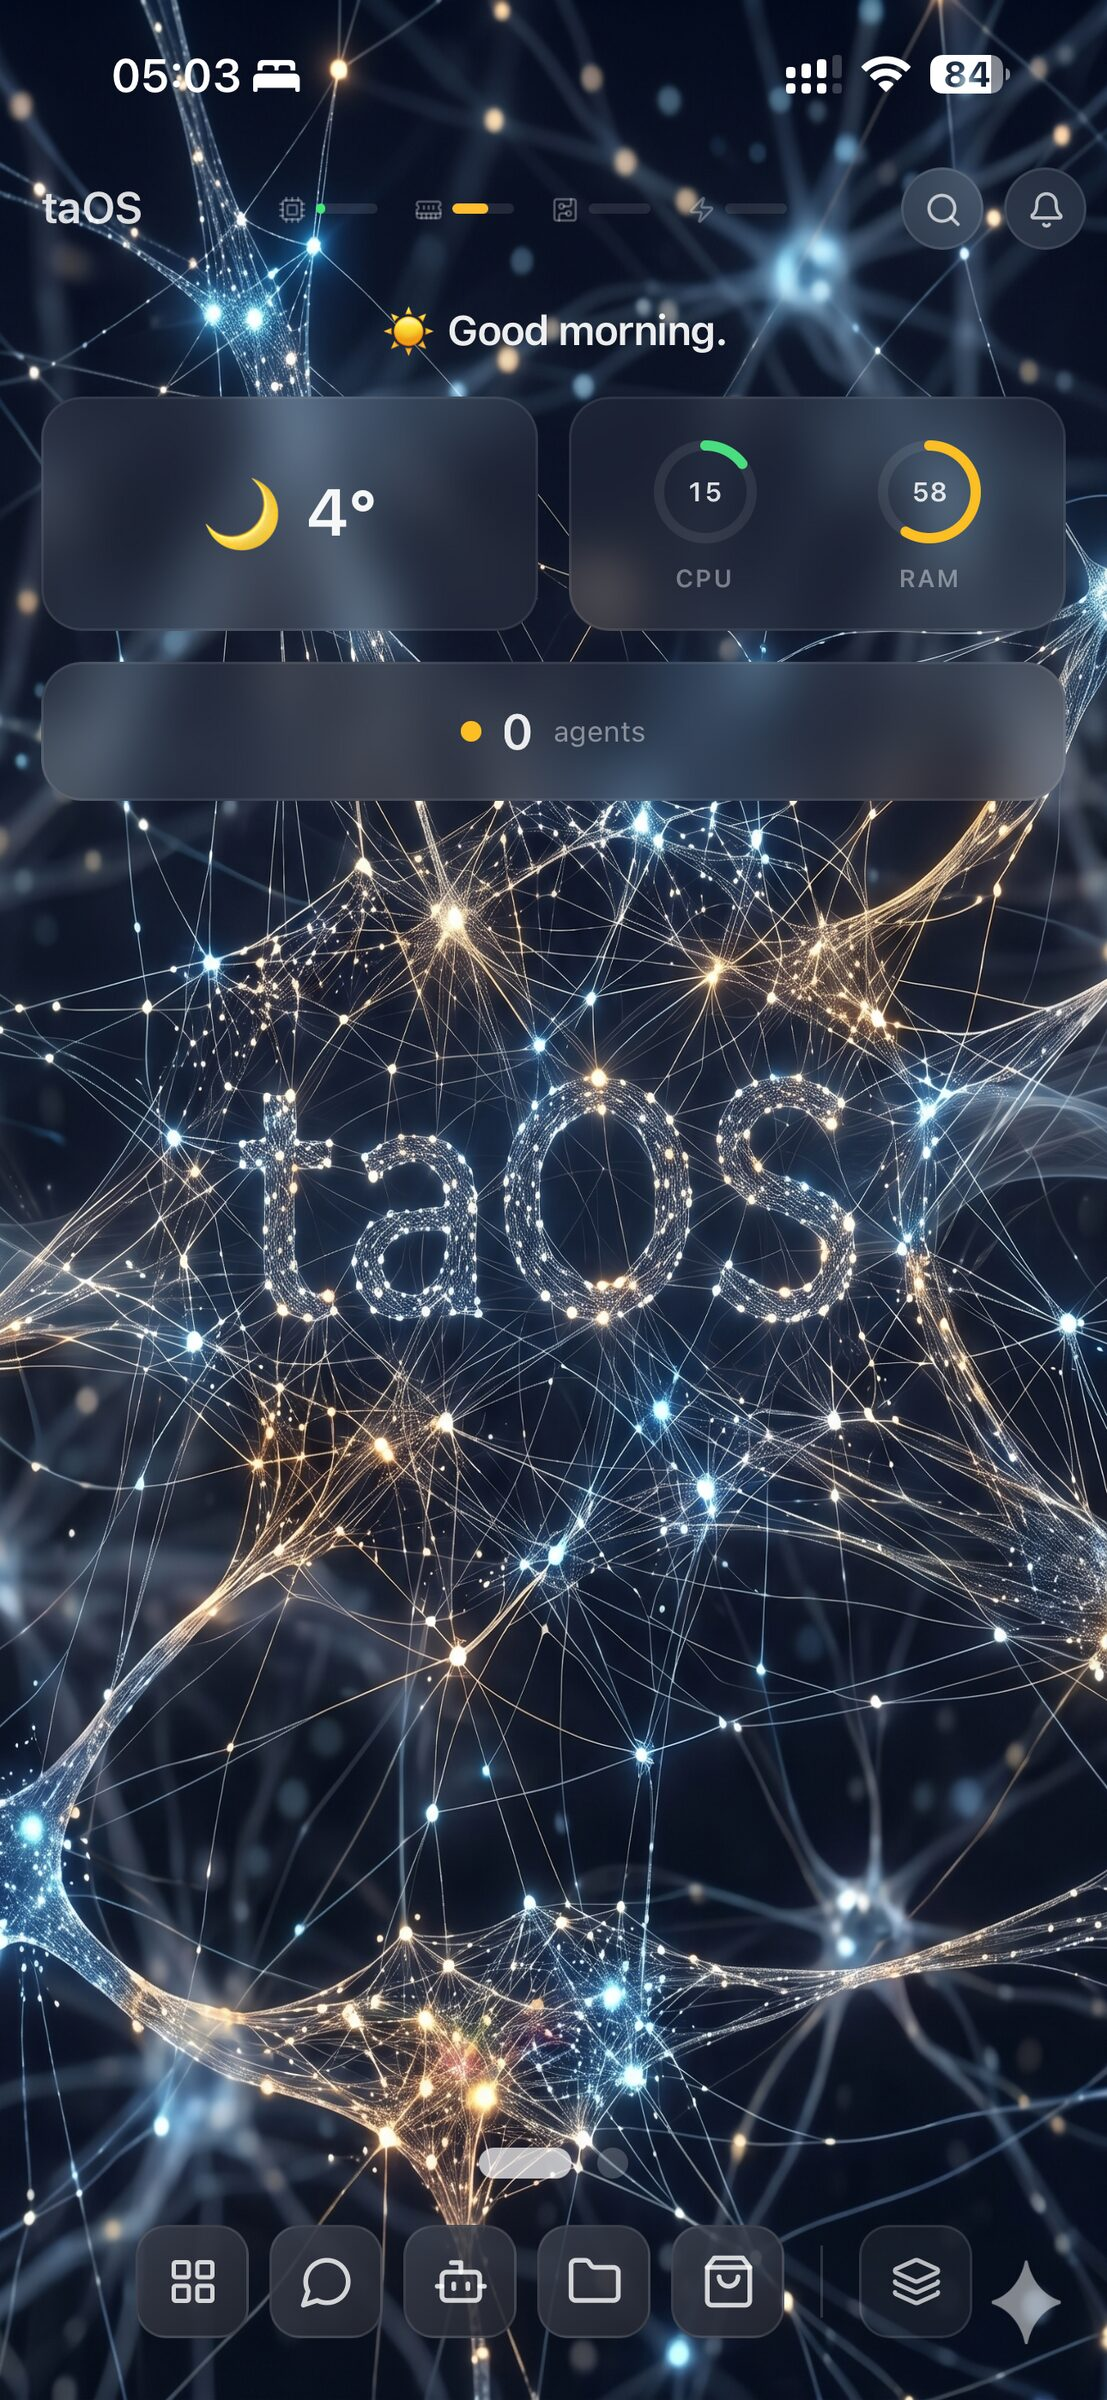
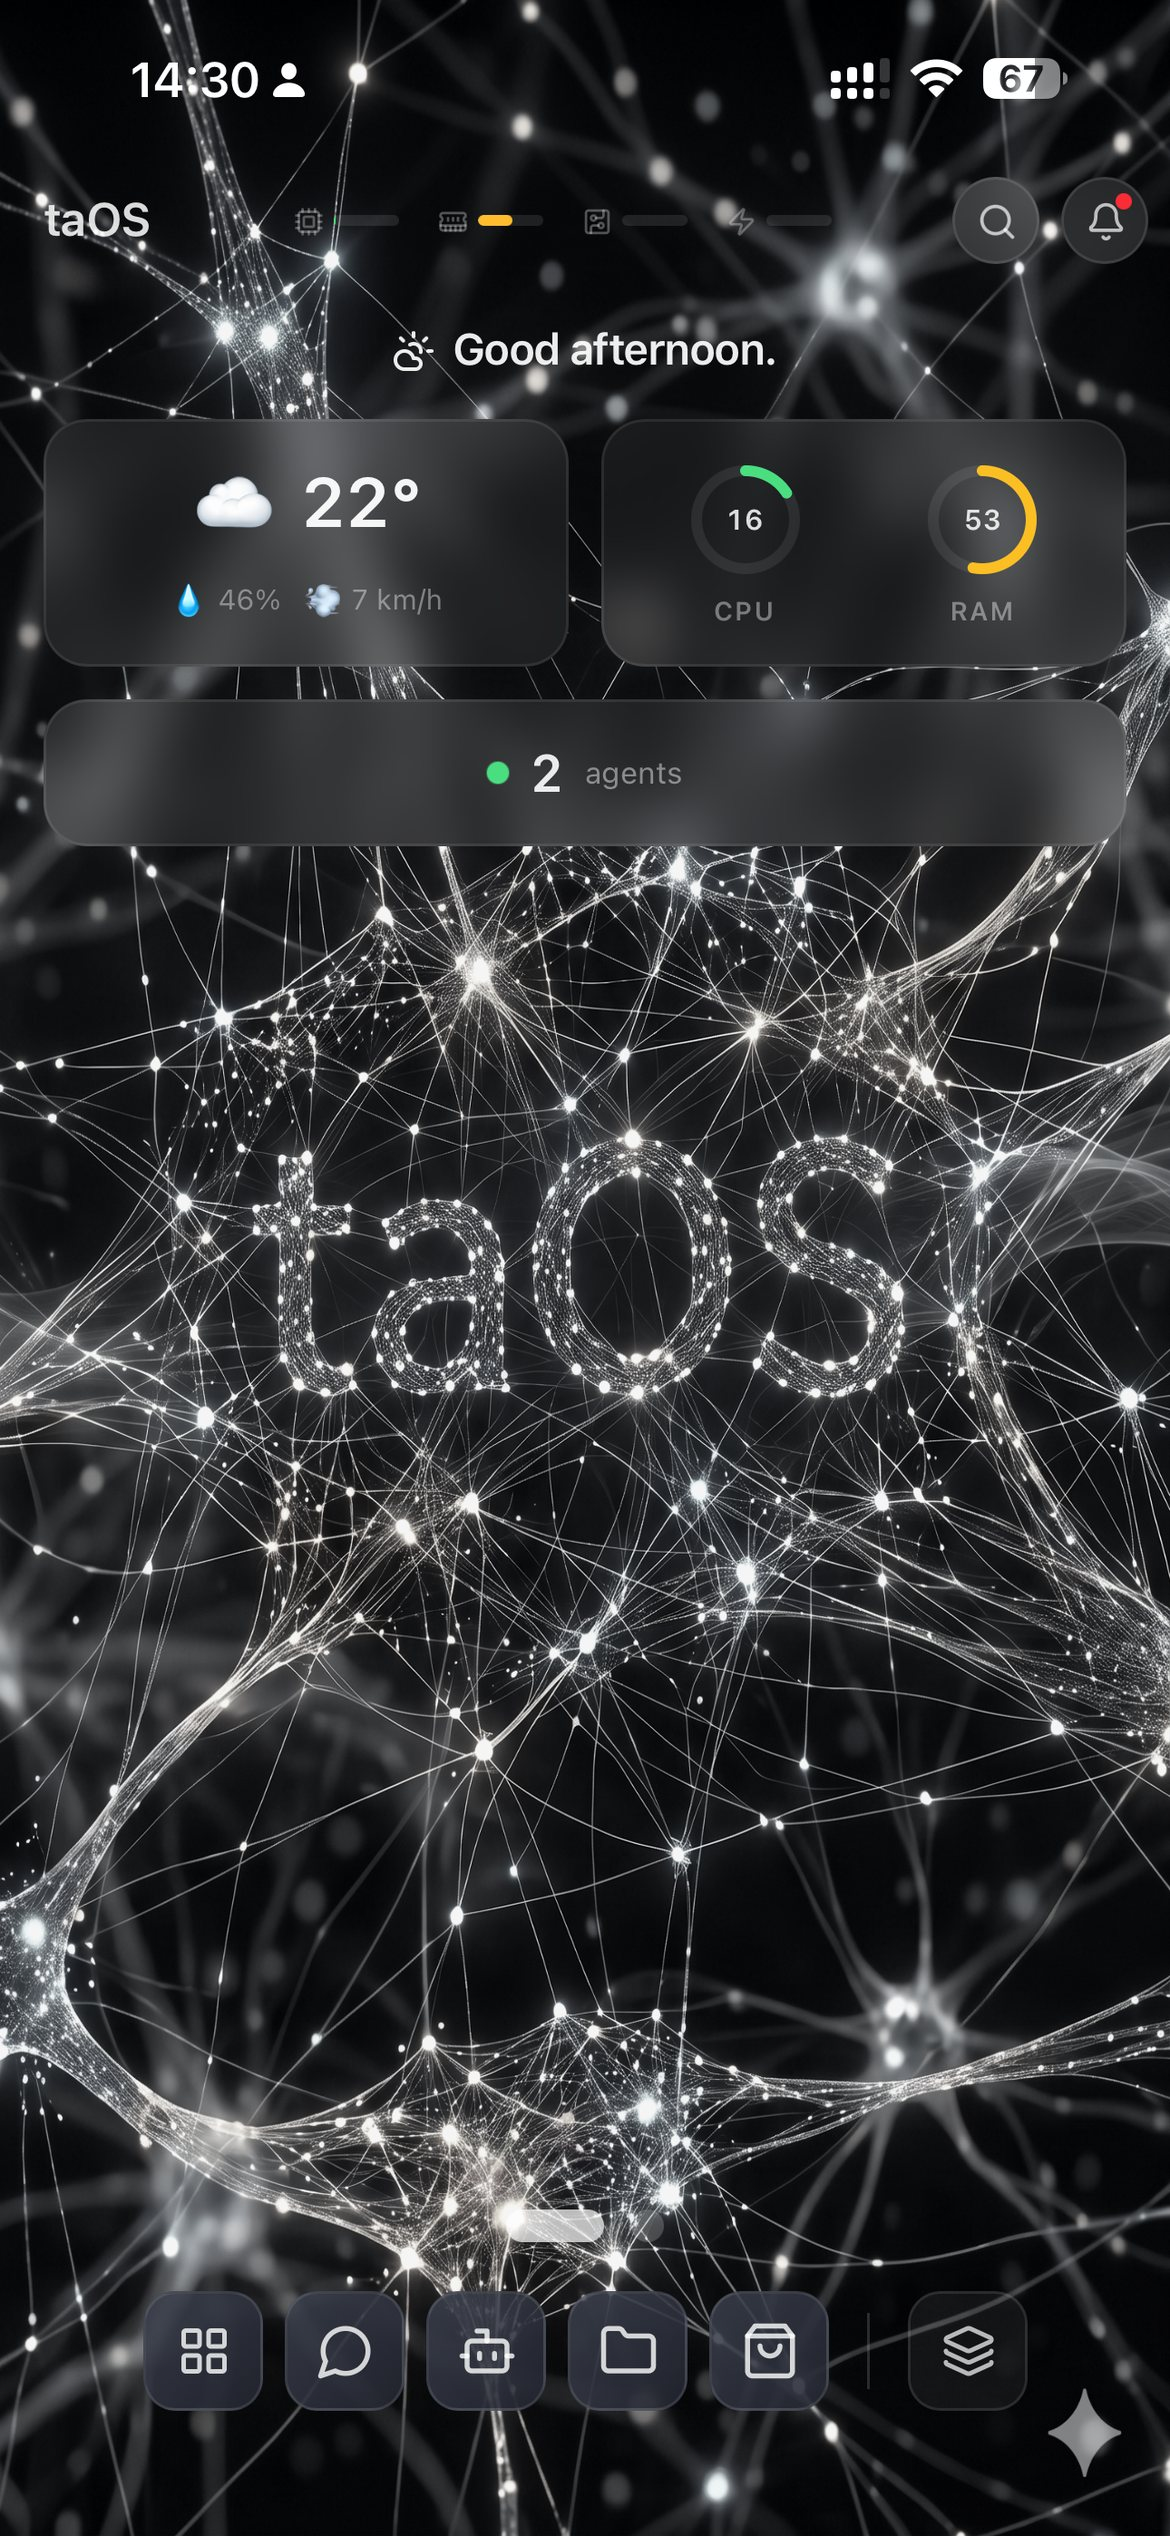
docs(readme): refresh + optimize screenshots (v1.0.0-beta.3 UI)
Replace stale April screenshots with the current desktop/mobile UI:
new multi-window desktop hero, redesigned Store (real covers/icons),
Apple App Store-style mobile Store, refreshed home/search/activity/agents
shots. All images downscaled and re-encoded as optimized JPG, cutting
docs/images from ~12MB to ~2.8MB.

diff --git a/README.md b/README.md
@@ -35,15 +35,15 @@ A full web desktop environment with 36 bundled apps, 108 catalog apps, 47 MCP pl
 <p align="center">
   <img src="docs/images/mobile-home.jpg" alt="taOS mobile home" width="30%">
   &nbsp;
-  <img src="docs/images/mobile-search.png" alt="Global search on mobile" width="30%">
+  <img src="docs/images/mobile-search.jpg" alt="Global search on mobile" width="30%">
   &nbsp;
-  <img src="docs/images/mobile-store.png" alt="App store on mobile" width="30%">
+  <img src="docs/images/mobile-store.jpg" alt="App store on mobile" width="30%">
 </p>
 
 <p align="center"><sub>Same platform, same session -- desktop, tablet, and phone.</sub></p>
 
 <p align="center">
-  <img src="docs/images/agents-working.png" alt="Six agents on different frameworks chatting in a shared taOS channel" width="100%">
+  <img src="docs/images/agents-working.jpg" alt="Six agents on different frameworks chatting in a shared taOS channel" width="100%">
 </p>
 
 <p align="center"><sub>Six agents on six different frameworks (OpenClaw, Hermes, SmolAgents, Langroid, PocketFlow, OpenAI Agents SDK) talking in a single shared channel.</sub></p>
@@ -102,7 +102,7 @@ taOS ships with a full browser-based desktop environment. Open it at `http://you
 The Activity app includes a Cluster overview panel showing live worker status and resource stats alongside the process monitor. The Model Browser surfaces cloud models (from configured providers) alongside local catalog models, with a provider badge per entry. The deploy wizard accepts cloud models as inference targets.
 
 <p align="center">
-  <img src="docs/images/desktop-store.png" alt="App store -- 108 catalog apps, 16 agent frameworks, hardware-filtered" width="100%">
+  <img src="docs/images/desktop-store.jpg" alt="App store -- 108 catalog apps, 16 agent frameworks, hardware-filtered" width="100%">
 </p>
 
 <p align="center"><sub>The Store -- agent frameworks, models, plugins, services. One-click install, hardware-filtered.</sub></p>
@@ -116,11 +116,11 @@ Full browser-based desktop OS with window manager (float + snap), dock, launchpa
 Auto-detects touch devices and swaps the desktop for a widget-first home screen with customisable multi-page layout (swipe or tap dots to navigate), a persistent dock with app launcher and app switcher, and desktop-style app windows with close/minimise title bars. The top bar features iOS 26-style frosted glass buttons for search and notifications, with a "taOS" home button. Installable as a fullscreen PWA on iOS and Android. A standalone Chat PWA is available at `/chat-pwa` and installs like a private Discord.
 
 <p align="center">
-  <img src="docs/images/mobile-activity-system.png" alt="Mobile activity view -- per-core CPU, NPU, RAM" width="30%">
+  <img src="docs/images/mobile-activity-system.jpg" alt="Mobile activity view -- per-core CPU, NPU, RAM" width="30%">
   &nbsp;
-  <img src="docs/images/mobile-activity-cluster.png" alt="Mobile cluster view -- worker hardware, thermals, network" width="30%">
+  <img src="docs/images/mobile-activity-cluster.jpg" alt="Mobile cluster view -- worker hardware, thermals, network" width="30%">
   &nbsp;
-  <img src="docs/images/mobile-activity-scheduler.png" alt="Mobile scheduler view -- worker hardware and capabilities" width="30%">
+  <img src="docs/images/mobile-activity-scheduler.jpg" alt="Mobile scheduler view -- worker hardware and capabilities" width="30%">
 </p>
 
 <p align="center"><sub>Full system observability on your phone -- per-core stats, cluster health, and the hardware-aware scheduler.</sub></p>
@@ -197,7 +197,7 @@ One-click install for agent frameworks, AI models, and services. Hardware-aware,
 > **Running taOS *inside* an LXC (e.g. Proxmox)?** Deploying an agent creates a *nested* container, which an **unprivileged** LXC cannot do -- the kernel can't remap the nested container's filesystem, so the deploy fails with an `idmapped storage / change ownership` error. Run the taOS LXC as **privileged with nesting enabled**. On Proxmox: untick *Unprivileged container* and set Options → Features → `nesting=1` (plus `keyctl=1`, `fuse=1`), then redeploy. Bare-metal and VM installs are unaffected. (taOS detects this and surfaces the fix in the deploy error.)
 
 <p align="center">
-  <img src="docs/images/mobile-agents-empty.png" alt="Agents app empty state on mobile -- one tap to deploy" width="30%">
+  <img src="docs/images/mobile-agents-empty.jpg" alt="Agents app empty state on mobile -- one tap to deploy" width="30%">
 </p>
 
 <p align="center"><sub>The Agents app on mobile -- one tap from empty to your first deployed agent.</sub></p>
@@ -307,11 +307,11 @@ Search across agents, apps, messages, and files from a single endpoint. Finds an
 ### Monitoring & Management
 
 <p align="center">
-  <img src="docs/images/desktop-activity-system.png" alt="Activity -- CPU, NPU, memory, disk, cluster" width="100%">
+  <img src="docs/images/desktop-activity-system.jpg" alt="Activity -- CPU, NPU, memory, disk, cluster" width="100%">
 </p>
 
 <p align="center">
-  <img src="docs/images/desktop-activity-scheduler.png" alt="Activity scheduler -- per-worker hardware and capabilities" width="100%">
+  <img src="docs/images/desktop-activity-scheduler.jpg" alt="Activity scheduler -- per-worker hardware and capabilities" width="100%">
 </p>
 
 <p align="center"><sub>Every core, every worker, every capability -- visible at a glance.</sub></p>